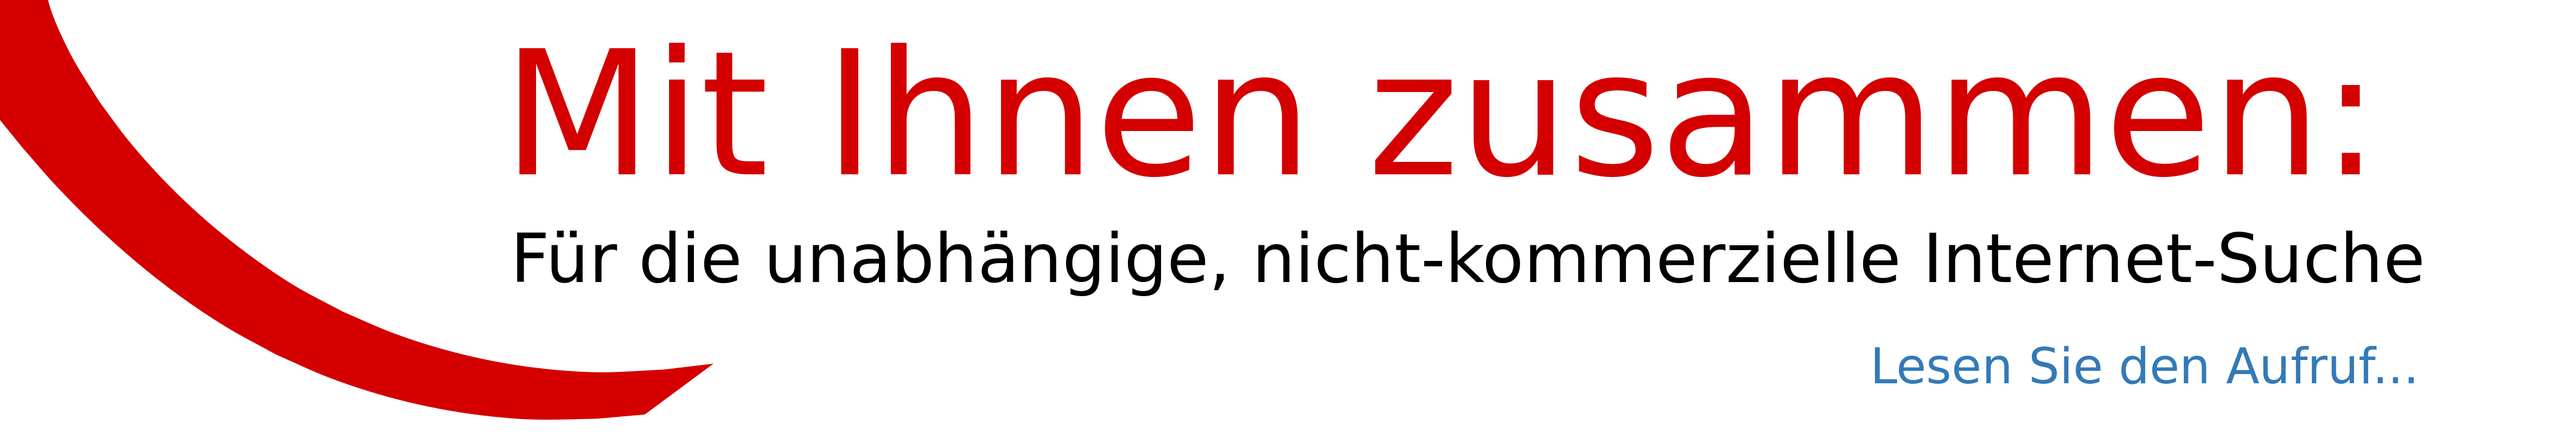
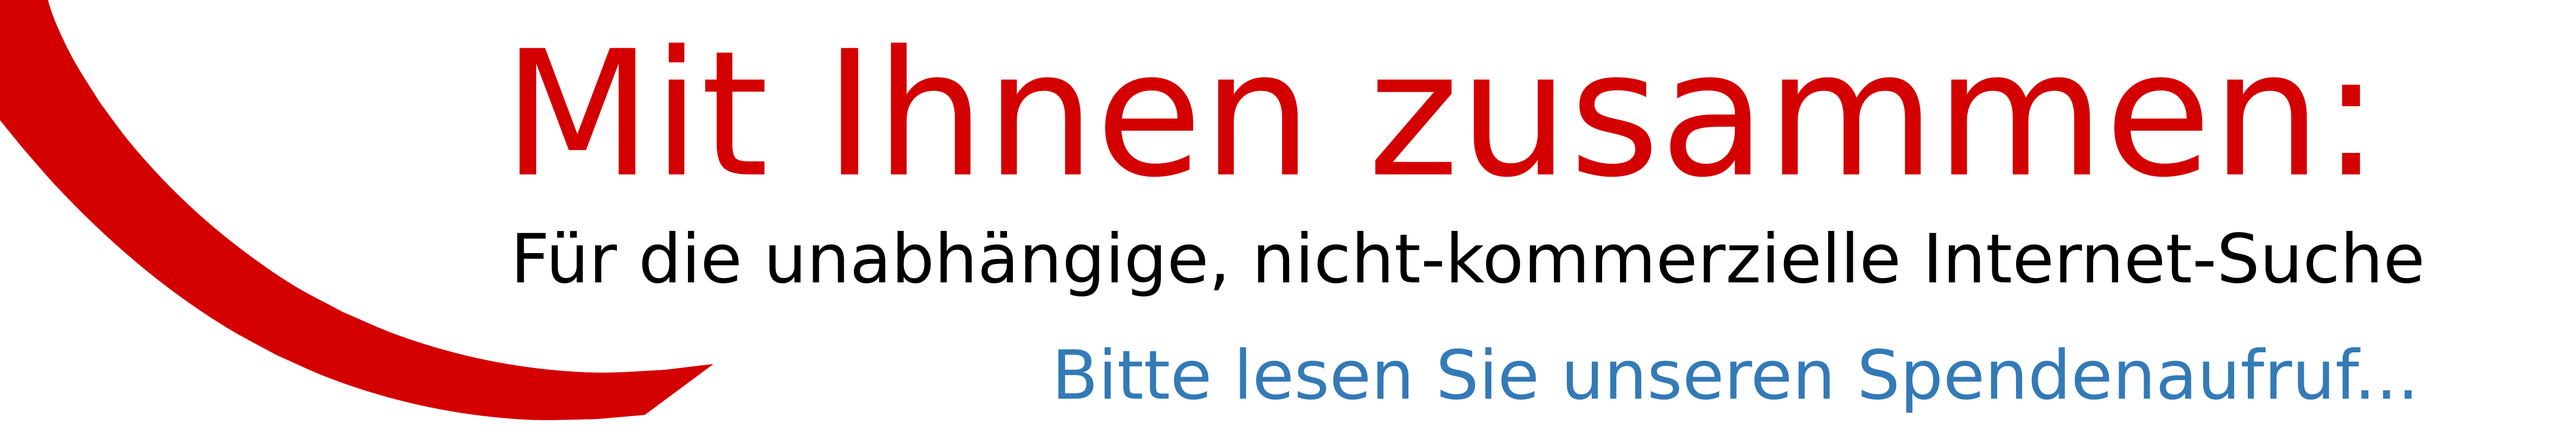
Spendenaufruf Layout verbessert

diff --git a/public/js/scriptResultPage.js b/public/js/scriptResultPage.js
@@ -1,17 +1,6 @@
 $(document).ready(function(){
-	if( top != self ){
-        	postSize($(document).height());
-	}
 	getDocumentReadyForUse();
 });
-
-function postSize(height){
-	var target = parent.postMessage ? parent : (parent.document.postMessage ? parent.document : undefined);
-
-    	if(typeof target != "undefined" && document.body.scrollHeight){
-        	target.postMessage(height, "*");
-        }
-}
 
 function tabs(){
 	//return;
@@ -54,7 +43,7 @@ function theme(){
 				localStorage.removeItem("theme");
 			}else{
 				theme = theme.split(",");
-				$($("head link")[2]).attr("href", "/css/theme.css.php?r=" + theme[0] + "&g=" + theme[1] + "&b=" + theme[2] + "&a=" + theme[3]);
+				$("#theme").attr("href", "/css/theme.css.php?r=" + theme[0] + "&g=" + theme[1] + "&b=" + theme[2] + "&a=" + theme[3]);
 			}
 		}
 	}

diff --git a/public/css/style.css b/public/css/style.css
@@ -349,3 +349,8 @@ header ul li{
 	
     -webkit-box-shadow: 1px 1px 3px 1px rgba(0,0,0,0.3); -moz-box-shadow: 1px 1px 3px 1px rgba(0,0,0,0.3); box-shadow: 1px 1px 3px 1px rgba(0,0,0,0.3);
 }
+
+
+
+
+

diff --git a/resources/views/layouts/staticPages.blade.php b/resources/views/layouts/staticPages.blade.php
@@ -23,7 +23,7 @@
 	<body>
 		<header>
 			<nav class="navbar navbar-default">
-				<div class="container">
+				<div class="container-fluid">
 					<div class="navbar-header">
 						<button type="button" class="navbar-toggle collapsed" data-toggle="collapse" data-target="#navbar-collapse" aria-expanded="false">
 							<span class="sr-only">{{ trans('staticPages.navigationToggle') }}</span>
@@ -31,10 +31,9 @@
 							<span class="icon-bar"></span>
 							<span class="icon-bar"></span>
 						</button>
-					</div>
-					<div>
 						@yield('homeIcon')
 					</div>
+					
 					<div class="collapse navbar-collapse" id="navbar-collapse">
 						<ul class="nav navbar-nav navbar-right">
 							<li @if ( !isset($navbarFocus) || $navbarFocus === 'suche') class="active" @endif >
@@ -87,10 +86,10 @@
 			</nav>
 		</header>
 		<div class="wrapper">
-			<div class="mg-panel container" style="margin-bottom:20px;text-align:center;padding:0px;width:50%;margin-top:0px">
-				<a href="{{ LaravelLocalization::getLocalizedURL(LaravelLocalization::getCurrentLocale(), "/spendenaufruf") }}">
-				<img src="/img/aufruf.png" style="width:100%;">
-				</a>
+			<div class="mg-panel container" id="spendenaufruf" style="margin-bottom:20px;max-height:126px;text-align:center;padding:0px;margin-top:0px">
+					<a href="{{ LaravelLocalization::getLocalizedURL(LaravelLocalization::getCurrentLocale(), "/spendenaufruf") }}">
+					<img src="/img/aufruf.png" style="max-width:100%;max-height:126px;">
+					</a>
 			</div>
 			<main class="mg-panel container">
 				@if (isset($success))

diff --git a/resources/views/spende/spendenaufruf.blade.php b/resources/views/spende/spendenaufruf.blade.php
@@ -124,6 +124,26 @@ im Internet weiter entwickelt und betrieben werden kann:
 		</form>
 		<p>{{ trans('spenden.lastschrift.10') }}</p>
 	</div>
+	<div class="col-md-6">
+		<h2 id="mails">Aus den EMails vorheriger Spender:</h2>
+		<ul style="text-align:left; list-style-type: initial;">
+			<li>"Danke, dass es metager gibt."</li>
+			<li>"Ich (85J.) möchte für Ihre aufwändige Arbeit 200 Euro spenden. Bleibt stark gegen die Kraken."</li>
+  			<li>"Ihre Arbeit halte ich für sehr wertvoll"</li>
+  			<li>"Danke für Ihre gute Arbeit!"</li>
+  			<li>"Super das neue MetaGer!"</li>
+  			<li>"Suchmaschine wie von Ihnen entwickelt und betrieben ist sehr begrüßenswert.  Meine Spende dazu"</li>
+  			<li>"Als kleinen Beitrag für Ihre große und großartige Arbeit spende ich"</li>
+  			<li>"Bitte buchen Sie 100,-EUR für Ihre gute Arbeit ab."</li>
+  			<li>"Gerade in der heutigen Zeit braucht es eine Suchmaschine aus sicherer Hand und guten Absichten."</li>
+  			<li>"Ihre Arbeit ist Spitze. Deshalb möchte Ihr Projekt fördern."</li>
+  			<li>"Ich verwende schon seit Jahren Metager und danke mit einer Spende"</li>
+  			<li>"MetaGer ist Spitze! Ich spende"</li>
+  			<li>"Armer Rentner spendet gerne 5,00 Euro"</li>
+  			<li>"Ich verwende fast nur noch die MetaGer-Suche und bin damit sehr zufrieden"</li>
+  			<li>"Danke für euer Werk!"</li>
+		</ul>
+	</div>
 </div>
 <div id="left" class="col-lg-6 col-md-12 col-sm-12 others">
 		

diff --git a/resources/views/quicktip.blade.php b/resources/views/quicktip.blade.php
@@ -4,14 +4,7 @@
 		<link rel="stylesheet" type="text/css" href="/css/bootstrap.css" />
 		<link rel="stylesheet" type="text/css" href="/css/quicktips.css" />
 	</head>
-	<body>
-		<div class="quicktip aufruf bg-danger">
-			<h1>MetaGer sagt <i>Danke</i></h1>
-			Vielen Dank für mehr als 20 Jahre Unterstützung.
-			<br>
-			<a href="{{ LaravelLocalization::getLocalizedURL(LaravelLocalization::getCurrentLocale(), "/spendenaufruf") }}" class="btn btn-sm btn-danger" style="margin-top:5px;" target="_blank">Lesen Sie den Spendenaufruf</a>
-		</div>		
-
+	<body>	
 		@if( $spruch !== "" )
 			<blockquote id="spruch">{!! $spruch !!}</blockquote>
 		@endif

diff --git a/resources/views/layouts/resultPage.blade.php b/resources/views/layouts/resultPage.blade.php
@@ -8,7 +8,7 @@
 	@if( isset($mobile) && $mobile )
 		<link href="/css/styleResultPageMobile.css" rel="stylesheet" />
 	@endif
-	<link href="/css/theme.css.php" rel="stylesheet" />
+	<link id="theme" href="/css/theme.css.php" rel="stylesheet" />
 	<link href="/favicon.ico" rel="icon" type="image/x-icon" />
 	<link href="/favicon.ico" rel="shortcut icon" type="image/x-icon" />
 	<meta content="width=device-width, initial-scale=1.0, user-scalable=no" name="viewport" />
@@ -21,7 +21,7 @@
 		@include('layouts.researchandtabs')
 	@else
 		<div class="tab-content container-fluid">
-	@yield('results')
+		@yield('results')
 		</div>
 	@endif
 	<footer>

diff --git a/resources/views/metager3.blade.php b/resources/views/metager3.blade.php
@@ -24,6 +24,11 @@
 	@else
 		<div class="col-xs-12 col-md-12 resultContainer">
 	@endif
+	<div class="mg-panel container" style="margin-bottom:20px;max-height:90px;text-align:left; max-width:100%; padding:0px;margin-top:0px">
+		<a href="{{ LaravelLocalization::getLocalizedURL(LaravelLocalization::getCurrentLocale(), "/spendenaufruf") }}" target="_blank">
+			<img src="/img/aufruf.png" style="max-width:100%;max-height:90px;">
+		</a>
+	</div>
 			{{-- 3-Mal Werbung --}}
 			@for($i = 0; $i <= 2; $i++)
 				@include('layouts.ad', ['ad' => $metager->popAd()])

diff --git a/resources/views/metager3bilder.blade.php b/resources/views/metager3bilder.blade.php
@@ -19,6 +19,13 @@
 			</ul>
 		</div>
 	@endif
+	<div class="mg-panel container result ad row" style="text-align:center;">
+		<div class="col-xs-12 col-sm-8" style="margin:0 auto;">
+			<a href="{{ LaravelLocalization::getLocalizedURL(LaravelLocalization::getCurrentLocale(), "/spendenaufruf") }}" target="_blank">
+				<img src="/img/aufruf.png" style="width:100%">
+			</a>
+		</div>
+	</div>
 	<div id="container">
 	@foreach($metager->getResults()->items() as $result)
 		<div class="item">

diff --git a/resources/views/layouts/researchandtabs.blade.php b/resources/views/layouts/researchandtabs.blade.php
@@ -31,6 +31,7 @@
                 </ul>
             </nav>
         </header>
+        
         <ul class="nav nav-tabs" id="foki" role="tablist">
         @if( $metager->getFokus() === "web" )
         <li id="webTabSelector" role="presentation" data-loaded="1" class="active">
